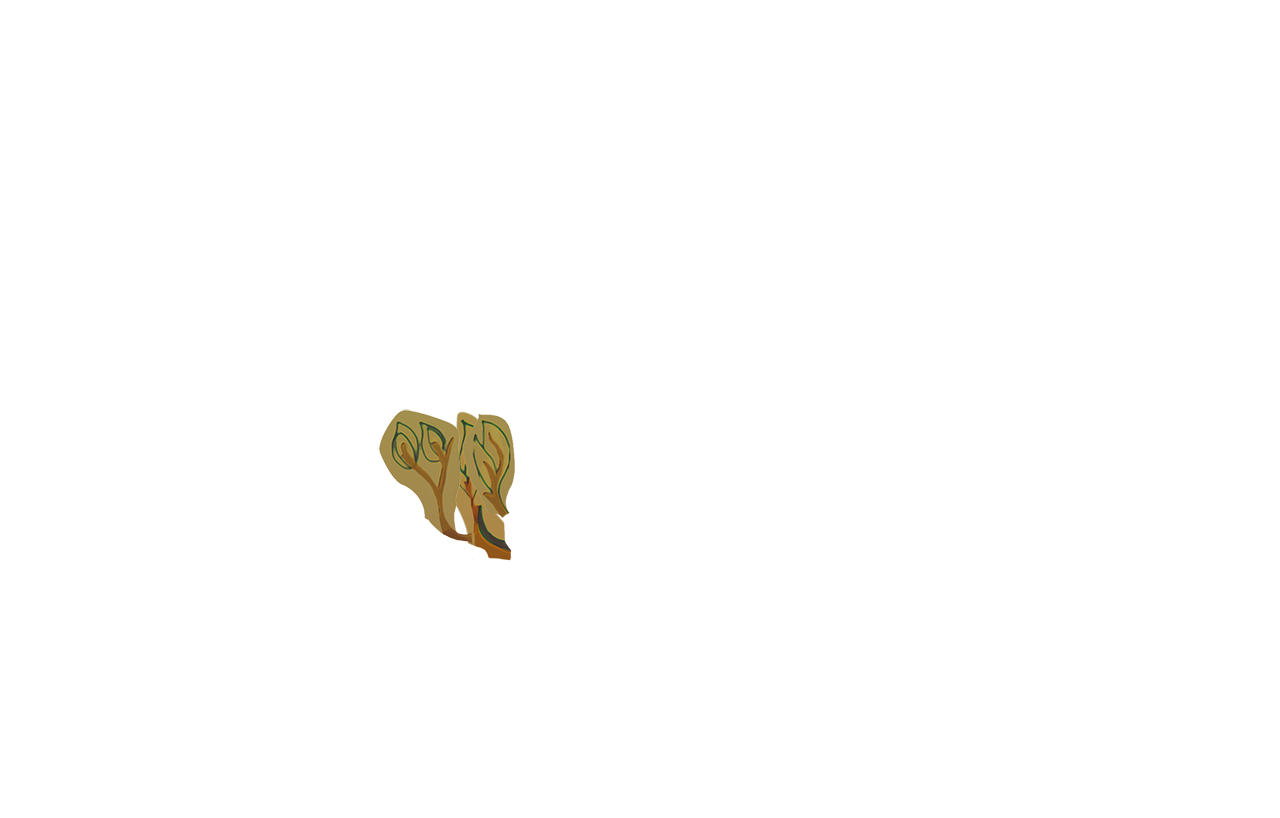
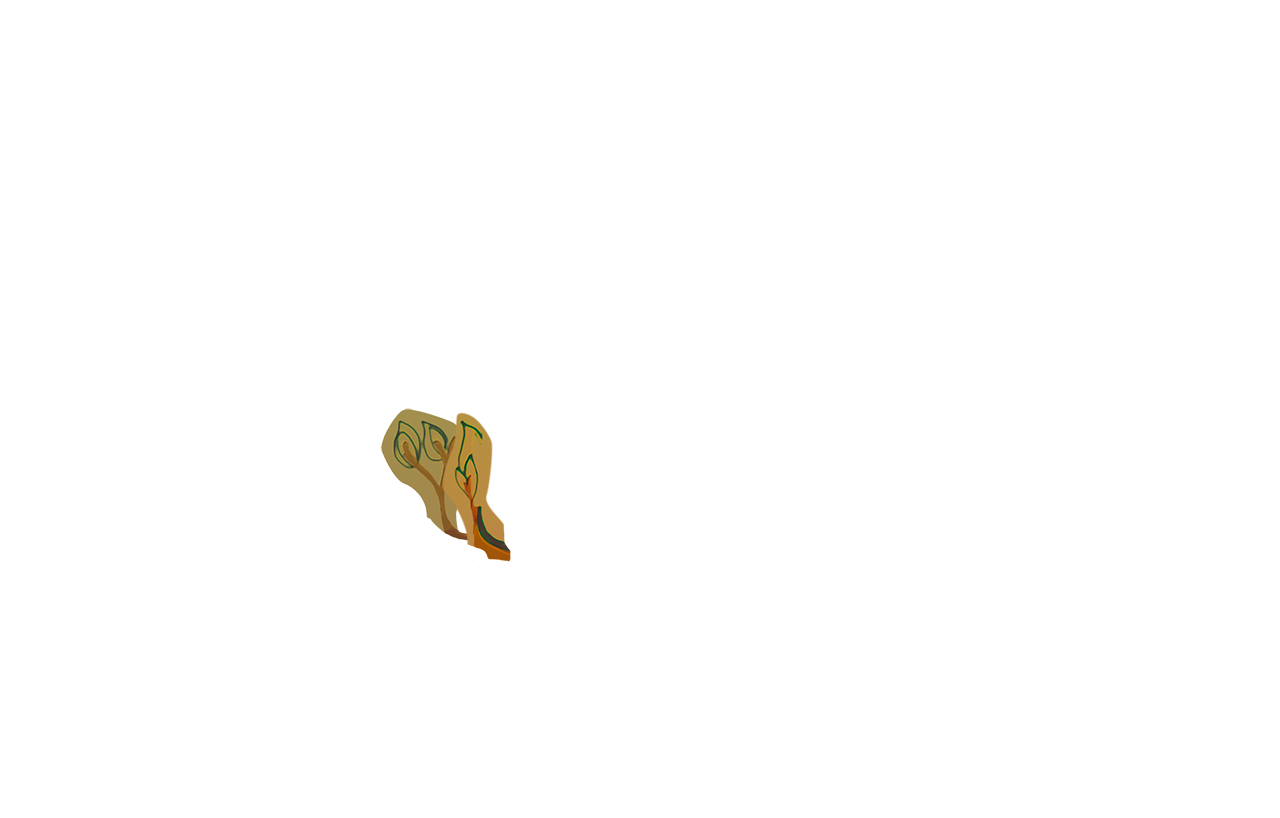
Fix branches of fifth level according new pacifico tree

Changed region(s): [[0.2812, 0.489, 0.4062, 0.7029]]

diff --git a/app/styles/tree/tree-level-5.scss b/app/styles/tree/tree-level-5.scss
@@ -30,12 +30,12 @@
             left: 37.5%;
           }
           &-2 {
-            bottom: 32%;
+            // bottom: 32%; MOI
+            bottom: 31%;
             left: 42.95%;
           }
           &-3 {
-            // bottom: 32.5%; //MOI
-            bottom: 34.5%;
+            bottom: 32.5%;
             left: 45.8%;
           }
           &-4 {
@@ -54,22 +54,23 @@
 
         &.fourth-level {
           &-0 {
-            bottom: 26%;
+            // bottom: 26%; MOI
+            bottom: 30%;
             left: 31.7%;
           }
           &-1 {
-            bottom: 28.3%;
-            left: 34.47%;
+            // bottom: 28.3%; MOI
+            // left: 34.47%; MOI
+            bottom: 26.3%;
+            left: 29.47%;
           }
           &-2 {
             bottom: 30.5%;
             left: 31.9%;
           }
           &-4 {
-            // bottom: 34.2%; //MOI
-            // left: 41.2%; //MOI
-            bottom: 36.2%;
-            left: 40.2%;
+            bottom: 34.2%;
+            left: 41.2%;
           }
           &-5 {
             bottom: 38.5%;
@@ -96,8 +97,7 @@
             left: 53.5%;
           }
           &-12 {
-            // bottom: 34.9%; //MOI
-            bottom: 36.9%;
+            bottom: 34.9%;
             left: 59%;
           }
           &-13 {
@@ -128,8 +128,10 @@
 
         &.fifth-level {
           &-0000{
+            // bottom: 42.36%; MOI
+            // left: 34.37%; MOI
             bottom: 42.36%;
-            left: 34.37%;
+            left: 32.37%;
           }
           &-0001{
             bottom: 43.75%;
@@ -140,8 +142,10 @@
             left: 36.71%;
           }
           &-0010{
-            bottom: 39.58%;
-            left: 30.07%;
+            // bottom: 39.58%; MOI
+            // left: 30.07%; MOI
+            bottom: 37.5%;
+            left: 30%;
           }
           &-0011{
             bottom: 37.77%;
@@ -176,9 +180,7 @@
             left: 46.87%;
           }
           &-1001{
-            // bottom: 41.25%; //MOI
-            // left: 43.35%; //MOI
-            bottom: 40.25%;
+            bottom: 41.25%;
             left: 43.35%;
           }
           &-1022{
@@ -216,6 +218,10 @@
           &-3000{
             bottom: 46.80%;
             left: 64.68%;
+          }
+          &-3001{//Pacifico copy of 3100
+            bottom: 44.86%;
+            left: 71.25%;
           }
           &-3010{
             bottom: 45.55%;
@@ -331,7 +337,7 @@
         &.fourth-level {
           &-0 {
             &.florecida{
-              background-image: url(../images/tree/branchs/level-4/rama007.png);
+              background-image: url(../images/tree/branchs/level-4/rama006-copy.png);
             }
           }
           &-1 {
@@ -346,7 +352,7 @@
           }
           &-4 {
             &.florecida{
-              background-image: url(../images/tree/branchs/level-4/rama007.png);
+              background-image: url(../images/tree/branchs/level-4/rama007-copy.png);
             }
           }
           &-5 {
@@ -381,7 +387,7 @@
           }
           &-12 {
             &.florecida{
-              background-image: url(../images/tree/branchs/level-4/rama082.png);
+              background-image: url(../images/tree/branchs/level-4/rama082-copy.png);
             }
           }
           &-13 {
@@ -421,7 +427,7 @@
         &.fifth-level {
           &-0000{
             &.florecida{
-              background-image: url(../images/tree/branchs/level-5/rama011-copy.png);
+              background-image: url(../images/tree/branchs/level-5/rama011.png);
             }
           }
           &-0001{
@@ -436,7 +442,7 @@
           }
           &-0010{
             &.florecida{
-              background-image: url(../images/tree/branchs/level-5/rama012.png);
+              background-image: url(../images/tree/branchs/level-5/rama012-copy.png);
             }
           }
           &-0011{
@@ -456,7 +462,7 @@
           }
           &-1100{
             &.florecida{
-              background-image: url(../images/tree/branchs/level-5/rama038-copy.png);
+              background-image: url(../images/tree/branchs/level-5/rama038.png);
             }
           }
           &-1101{
@@ -481,7 +487,7 @@
           }
           &-1001{
             &.florecida{
-              background-image: url(../images/tree/branchs/level-5/rama037-copy.png);
+              background-image: url(../images/tree/branchs/level-5/rama037.png);
             }
           }
           &-1022{
@@ -529,6 +535,14 @@
               background-image: url(../images/tree/branchs/level-5/rama088-copy.png);
             }
           }
+          &-3001{//Pacifico copy of 3100
+            &.florecida{
+              background-image: url(../images/tree/branchs/level-5/rama089-copy.png);
+              position: relative;
+              top: 0;
+              left: -1.5%;
+            }
+          }
           &-3010{
             &.florecida{
               background-image: url(../images/tree/branchs/level-5/rama088.png);
@@ -542,8 +556,7 @@
           }
           &-3100{
             &.florecida{
-              // background-image: url(../images/tree/branchs/level-5/rama089.png); //MOI
-              background-image: url(../images/tree/branchs/level-5/rama089-copy.png);
+              background-image: url(../images/tree/branchs/level-5/rama089.png);
               position: relative;
               top: 0;
               left: -1.5%;

diff --git a/app/scripts/values/neurons-options.js b/app/scripts/values/neurons-options.js
@@ -150,6 +150,9 @@
       'fifth-level-3000': {
         color: 'red'
       },
+      'fifth-level-3001': { //Pacifico
+        color: 'red'
+      },
       'fifth-level-3010': {
         color: 'red'
       },
